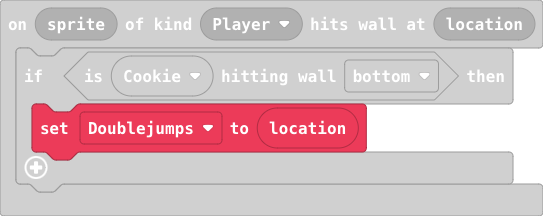
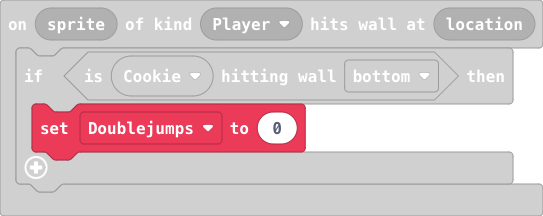
Update main.blocks, main.ts

Changed region(s): [[0.4715, 0.4722, 0.6777, 0.7222]]

diff --git a/main.ts b/main.ts
@@ -3,7 +3,7 @@ namespace SpriteKind {
 }
 scene.onHitWall(SpriteKind.Player, function (sprite, location) {
     if (Cookie.isHittingTile(CollisionDirection.Bottom)) {
-        Doublejumps = location
+        Doublejumps = 0
     }
 })
 controller.A.onEvent(ControllerButtonEvent.Pressed, function () {
